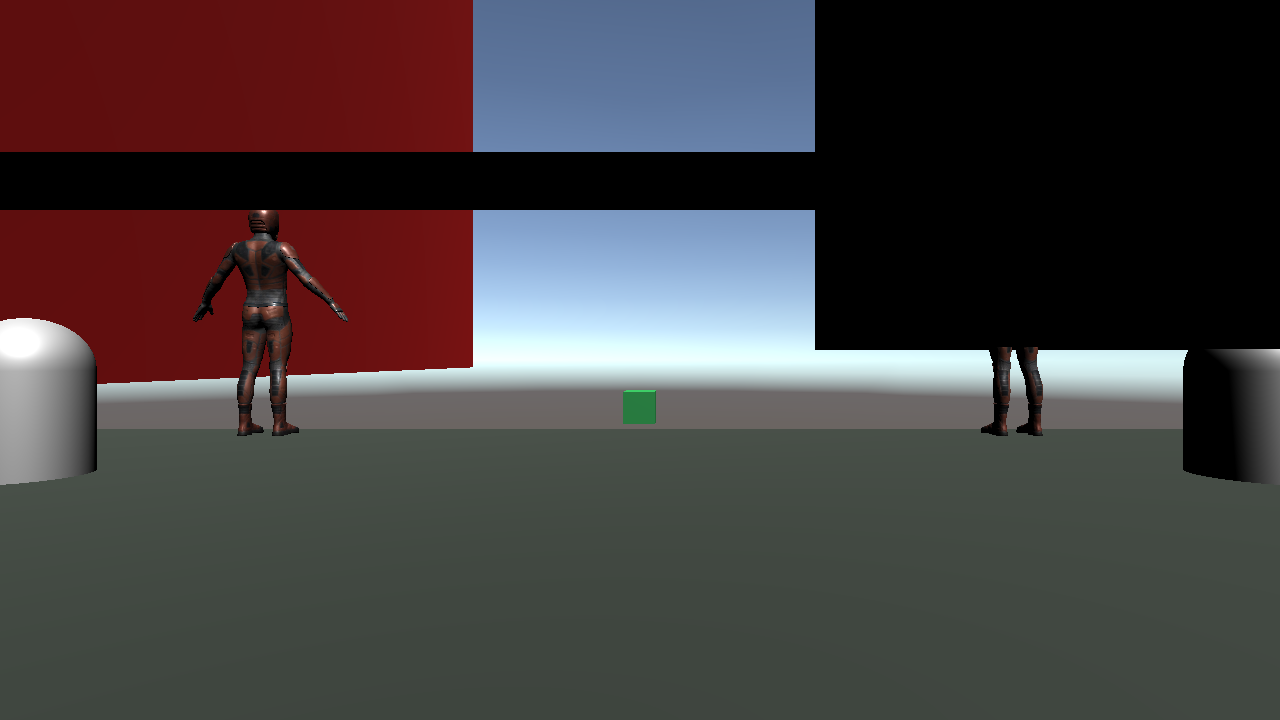
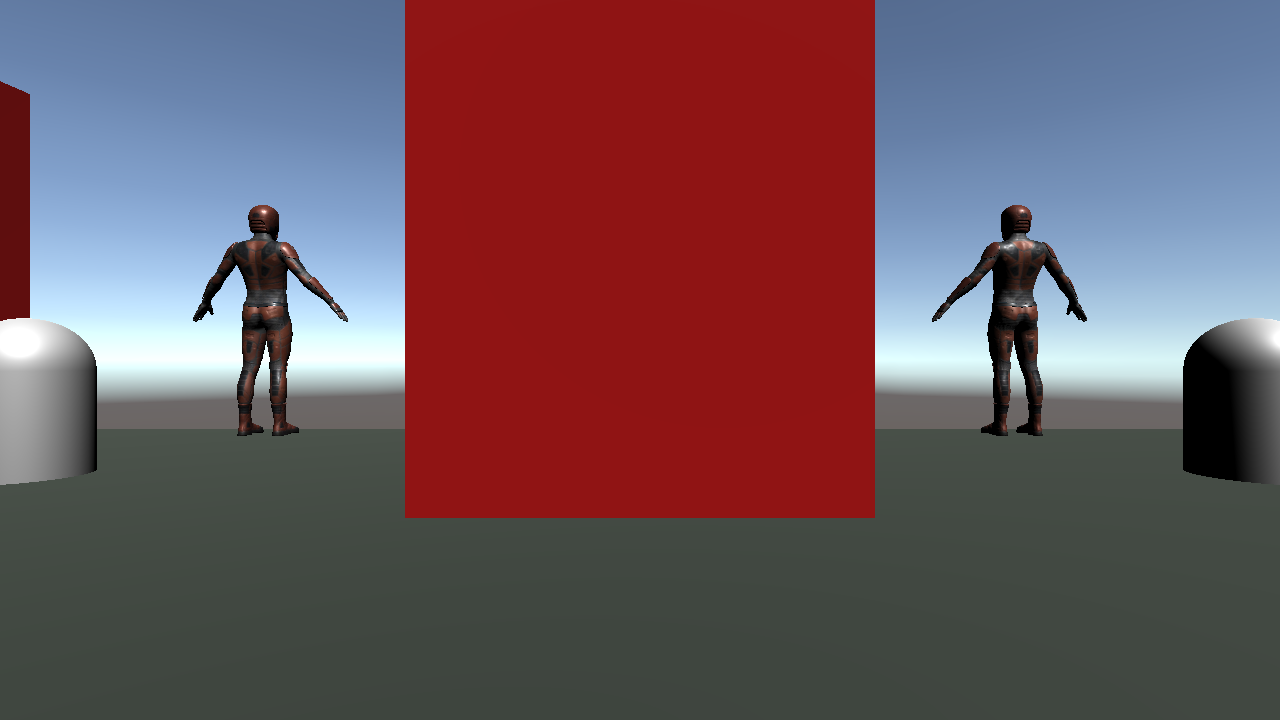
fix(fps): 武器/建筑尺寸归一化（FBX 导入缩放差异）
- 探针包围盒：士兵 1.95m/半人马 1.87m 正常，手枪 2.38m/建筑 50m 过大
- WeaponView 归一化到 0.55m，MapGenView 归一化到 8m 且建筑贴地
- 完整游戏验证：模型加载 + 洋红 0% + 画面 97% 内容

diff --git a/samples/MirrorUnityFPS/Assets/Mods/com.fps.mapgen/Scripts/MapGenView.cs b/samples/MirrorUnityFPS/Assets/Mods/com.fps.mapgen/Scripts/MapGenView.cs
@@ -35,7 +35,9 @@ namespace Com.Fps.MapGen
                 var go = prefab is not null ? Instantiate(prefab) : GameObject.CreatePrimitive(PrimitiveType.Cube);
                 go.name = "Building";
                 go.transform.SetParent(transform);
-                go.transform.position = new Vector3(x, y, z);
+                // 建筑原 50m 高，归一化到 ~8m；base 贴地
+                if (prefab is not null) NormalizeHeight(go, 8f);
+                go.transform.position = new Vector3(x, 0f, z);
                 if (prefab is null) go.GetComponent<Renderer>().material.color = new Color(0.55f, 0.45f, 0.35f);
             }
 
@@ -47,6 +49,16 @@ namespace Com.Fps.MapGen
         {
             try { return MapGenMod.Context?.Resources.Load(id) as GameObject; }
             catch (System.Exception) { return null; }
+        }
+
+        private static void NormalizeHeight(GameObject go, float targetHeight)
+        {
+            var bounds = new Bounds(go.transform.position, Vector3.zero);
+            var any = false;
+            foreach (var r in go.GetComponentsInChildren<Renderer>()) { bounds.Encapsulate(r.bounds); any = true; }
+            if (!any || bounds.size.y <= 0.0001f) return;
+            var scale = targetHeight / bounds.size.y;
+            go.transform.localScale = Vector3.Scale(go.transform.localScale, new Vector3(scale, scale, scale));
         }
     }
 }

diff --git a/samples/MirrorUnityFPS/Assets/Mods/com.fps.weapon/Scripts/WeaponView.cs b/samples/MirrorUnityFPS/Assets/Mods/com.fps.weapon/Scripts/WeaponView.cs
@@ -25,9 +25,23 @@ namespace Com.Fps.Weapon
             try
             {
                 if (WeaponMod.Context?.Resources.Load(FpsPistol) is GameObject prefab)
+                {
                     _heldWeapon = Instantiate(prefab);
+                    NormalizeHeight(_heldWeapon, 0.55f); // 枪+手第一人称合理尺寸（原 2.4m 过大）
+                }
             }
             catch (System.Exception) { }
+        }
+
+        /// <summary>按包围盒高度归一化缩放（不同 FBX 导入缩放差异巨大）。</summary>
+        private static void NormalizeHeight(GameObject go, float targetHeight)
+        {
+            var bounds = new Bounds(go.transform.position, Vector3.zero);
+            var any = false;
+            foreach (var r in go.GetComponentsInChildren<Renderer>()) { bounds.Encapsulate(r.bounds); any = true; }
+            if (!any || bounds.size.y <= 0.0001f) return;
+            var scale = targetHeight / bounds.size.y;
+            go.transform.localScale = Vector3.Scale(go.transform.localScale, new Vector3(scale, scale, scale));
         }
 
         private void LateUpdate()

diff --git a/runtime/Unity/Assets/Editor/ScreenshotProbe.cs b/runtime/Unity/Assets/Editor/ScreenshotProbe.cs
@@ -50,6 +50,10 @@ namespace Game.Runtime.Editor
                 }
                 var go = Object.Instantiate(prefab);
                 go.transform.position = new Vector3(x, 0, 0);
+                var bounds = new Bounds(go.transform.position, Vector3.zero);
+                foreach (var r in go.GetComponentsInChildren<Renderer>())
+                    bounds.Encapsulate(r.bounds);
+                Debug.Log($"[Probe] {name} 包围盒尺寸={bounds.size} 中心={bounds.center}");
                 foreach (var r in go.GetComponentsInChildren<Renderer>())
                 {
                     var mat = r.sharedMaterial;
